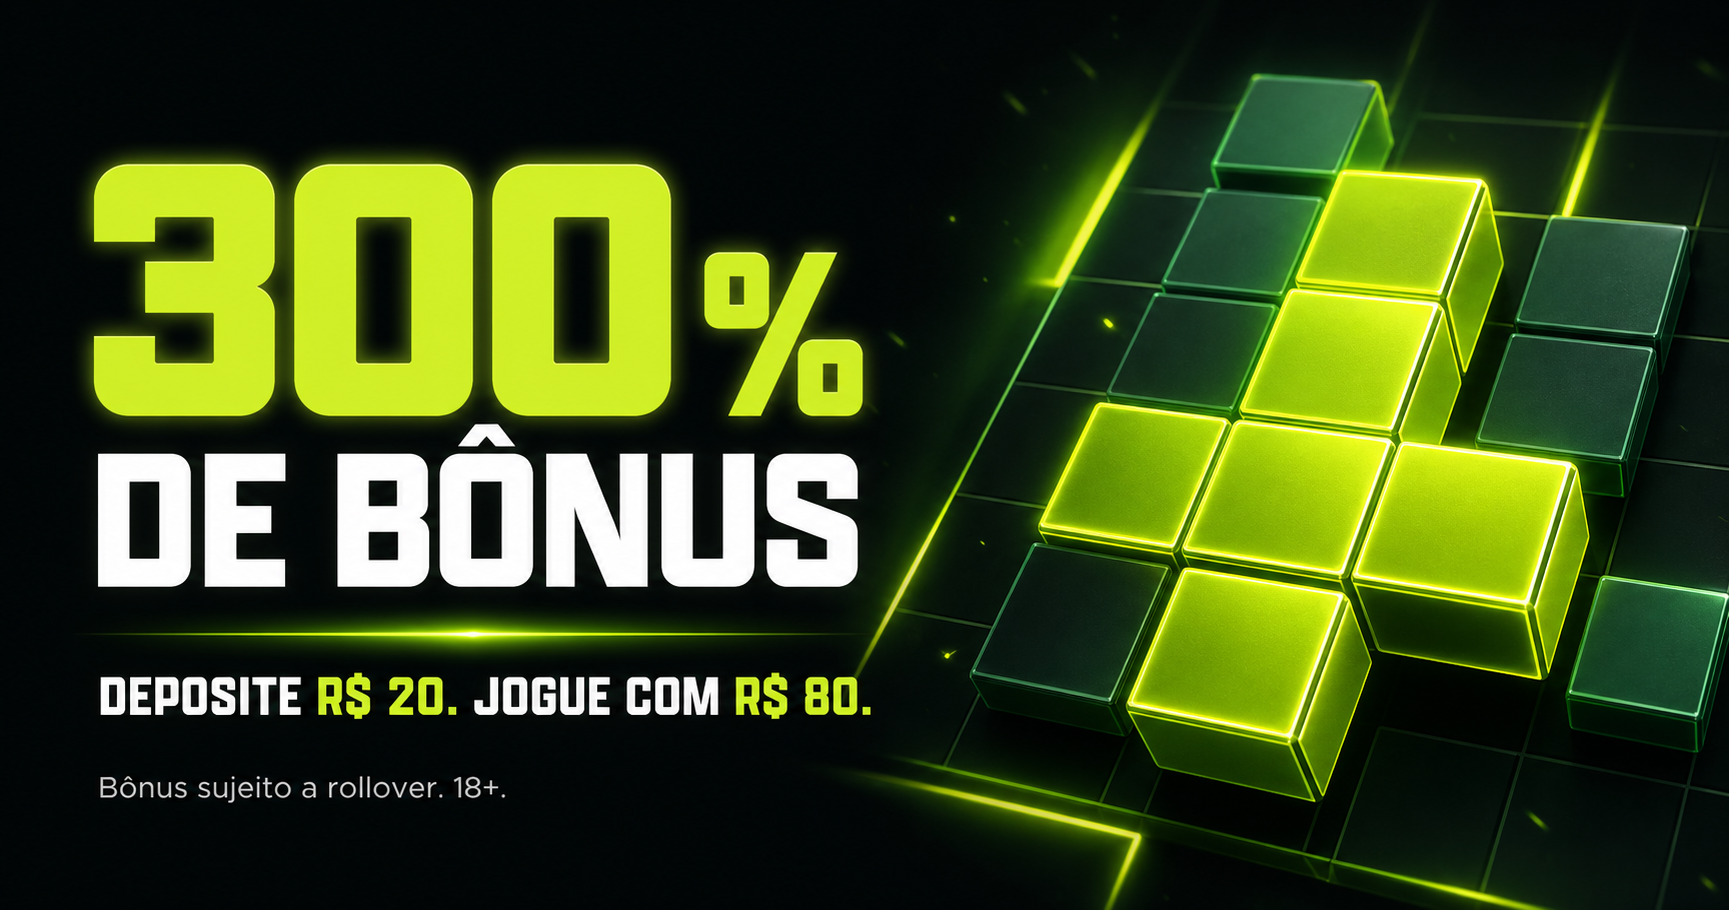
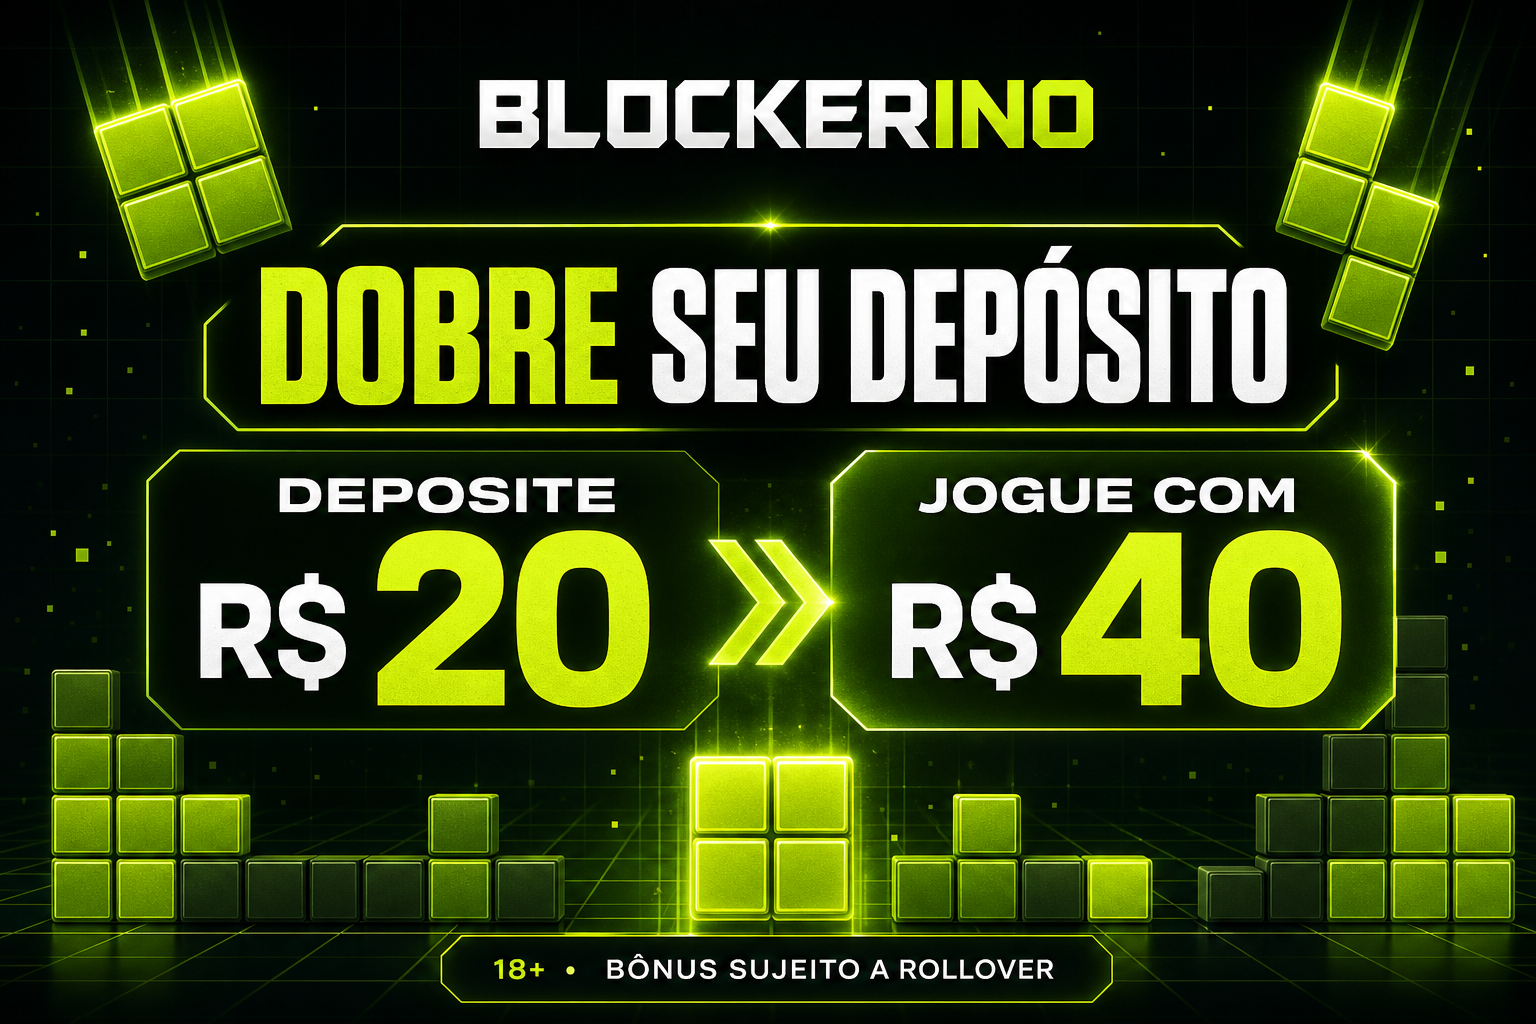
Change deposit promotion to 100 percent

diff --git a/public/index.html b/public/index.html
@@ -4,16 +4,20 @@
   <meta charset="utf-8">
   <meta name="viewport" content="width=device-width,initial-scale=1,viewport-fit=cover">
   <meta name="theme-color" content="#070b0b">
-  <meta name="description" content="Deposite R$ 20, receba 300% de bônus e comece no Blockerino com R$ 80 para jogar.">
+  <meta name="description" content="Deposite R$ 20, receba 100% de bônus e comece no Blockerino com R$ 40 para jogar.">
   <meta property="og:type" content="website">
-  <meta property="og:title" content="Blockerino — 300% de bônus no depósito">
-  <meta property="og:description" content="Deposite R$ 20 e jogue com R$ 80. Bônus sujeito a rollover.">
-  <meta property="og:image" content="/og.png">
+  <meta property="og:title" content="Blockerino — dobre seu depósito">
+  <meta property="og:description" content="Deposite a partir de R$ 20 e jogue com o dobro. Bônus sujeito a rollover.">
+  <meta property="og:image" content="https://block777-omega.vercel.app/og.png?v=20260803-1">
+  <meta property="og:image:width" content="1536">
+  <meta property="og:image:height" content="1024">
+  <meta property="og:image:alt" content="Blockerino: deposite R$ 20 e jogue com R$ 40">
   <meta name="twitter:card" content="summary_large_image">
-  <meta name="twitter:title" content="Blockerino — Encaixe. Quebre. Multiplique.">
-  <meta name="twitter:image" content="/og.png">
-  <title>Blockerino — Deposite R$ 20 e jogue com R$ 80</title>
-  <link rel="stylesheet" href="./css/style.css?v=20260730-3">
+  <meta name="twitter:title" content="Blockerino — dobre seu depósito">
+  <meta name="twitter:description" content="Deposite a partir de R$ 20 e jogue com o dobro. Bônus sujeito a rollover.">
+  <meta name="twitter:image" content="https://block777-omega.vercel.app/og.png?v=20260803-1">
+  <title>Blockerino — Deposite R$ 20 e jogue com R$ 40</title>
+  <link rel="stylesheet" href="./css/style.css?v=20260803-1">
 </head>
 <body>
   <div class="ambient ambient-a"></div><div class="ambient ambient-b"></div>
@@ -38,20 +42,20 @@
     <section class="screen active landing" id="landing-screen">
       <div class="hero">
         <div class="hero-copy">
-          <div class="eyebrow"><span></span><b id="hero-promo-eyebrow">OFERTA ATIVA · 300% DE BÔNUS</b></div>
-          <h1 id="hero-promo-title">Deposite<br><em>R$ 20.</em><br>Jogue com R$ 80.</h1>
-          <p id="hero-promo-copy">Seu depósito vale quatro vezes mais. Deposite a partir de R$ 20, receba 300% de bônus automático e entre no Blockerino com mais saldo para jogar.</p>
+          <div class="eyebrow"><span></span><b id="hero-promo-eyebrow">OFERTA ATIVA · 100% DE BÔNUS</b></div>
+          <h1 id="hero-promo-title">Deposite<br><em>R$ 20.</em><br>Jogue com R$ 40.</h1>
+          <p id="hero-promo-copy">Seu depósito vale o dobro. Deposite a partir de R$ 20, receba 100% de bônus automático e entre no Blockerino com mais saldo para jogar.</p>
           <div class="hero-actions">
-            <button class="btn btn-primary btn-xl pulse-cta" id="hero-promo-cta" onclick="app.openAuth('register')">Quero meus 300% <span>→</span></button>
+            <button class="btn btn-primary btn-xl pulse-cta" id="hero-promo-cta" onclick="app.openAuth('register')">Quero dobrar meu depósito <span>→</span></button>
             <button class="btn btn-ghost btn-xl" onclick="game.startDemoGame()">Jogar demonstração</button>
           </div>
           <div class="trust-row">
-            <span><b>PIX</b> confirmação automática</span><span id="hero-promo-trust"><b>+300%</b> a partir de R$ 20</span><span><b>18+</b> jogue com responsabilidade</span>
+            <span><b>PIX</b> confirmação automática</span><span id="hero-promo-trust"><b>+100%</b> a partir de R$ 20</span><span><b>18+</b> jogue com responsabilidade</span>
           </div>
           <p class="promo-terms" id="hero-promo-terms">Bônus promocional sujeito a rollover de 10x sobre o valor do bônus. Saques ficam indisponíveis até a conclusão do requisito. Consulte as regras na carteira.</p>
         </div>
         <div class="game-preview">
-          <div class="offer-badge"><span>VOCÊ DEPOSITA</span><b id="hero-example-deposit">R$ 20</b><i>+</i><span>NÓS ADICIONAMOS</span><b id="hero-example-bonus">R$ 60</b><strong id="hero-example-total">= R$ 80 PARA JOGAR</strong></div>
+          <div class="offer-badge"><span>VOCÊ DEPOSITA</span><b id="hero-example-deposit">R$ 20</b><i>+</i><span>NÓS ADICIONAMOS</span><b id="hero-example-bonus">R$ 20</b><strong id="hero-example-total">= R$ 40 PARA JOGAR</strong></div>
           <div class="preview-top"><div><small>MULTIPLICADOR</small><strong id="mini-demo-mult">1.00x</strong></div><div><small>RETORNO</small><strong id="mini-demo-value">R$ 20,00</strong></div><div><small>LINHAS</small><strong id="mini-demo-lines">0</strong></div></div>
           <canvas id="mini-demo-canvas" aria-label="Demonstração interativa do jogo"></canvas>
           <p>Arraste uma peça para experimentar</p>
@@ -82,7 +86,7 @@
         </div>
         <p class="security-disclaimer">Indicadores técnicos da plataforma. Os selos não representam certificação de órgão externo.</p>
       </section>
-      <div class="proof-strip"><span>ATIVE EM 3 PASSOS</span><b>01</b><p>Deposite a partir de R$ 20</p><b>02</b><p>Receba 300% automaticamente</p><b>03</b><p>Jogue e complete o rollover</p></div>
+      <div class="proof-strip"><span>ATIVE EM 3 PASSOS</span><b>01</b><p>Deposite a partir de R$ 20</p><b>02</b><p>Receba 100% automaticamente</p><b>03</b><p>Jogue e complete o rollover</p></div>
     </section>
 
     <section class="screen dashboard" id="menu-screen">
@@ -97,7 +101,7 @@
         <article class="metric"><small>MELHOR MULT.</small><strong id="dashboard-best">1.00x</strong><span>recorde pessoal</span></article>
       </div>
       <article class="dashboard-promo">
-        <div><small>OFERTA ATIVA</small><h3 id="dashboard-promo-title">300% de bônus em depósitos a partir de R$ 20</h3><p id="dashboard-promo-copy">R$ 20 viram R$ 80 para jogar. O progresso do rollover aparece na sua carteira.</p></div>
+        <div><small>OFERTA ATIVA</small><h3 id="dashboard-promo-title">100% de bônus em depósitos a partir de R$ 20</h3><p id="dashboard-promo-copy">R$ 20 viram R$ 40 para jogar. O progresso do rollover aparece na sua carteira.</p></div>
         <button class="btn btn-primary" onclick="app.showScreen('wallet-screen')">Ativar bônus agora <span>→</span></button>
       </article>
       <div class="dashboard-grid">
@@ -146,12 +150,12 @@
         <article class="panel wallet-actions">
           <div class="tabs"><button id="tab-dep-btn" class="active" onclick="wallet.toggleTab('deposit')">Depositar</button><button id="tab-with-btn" onclick="wallet.toggleTab('withdraw')">Sacar</button></div>
           <div id="dep-content">
-            <div class="deposit-promo"><span id="deposit-promo-badge">300% DE BÔNUS</span><h3>Deposite <b id="promo-deposit-value">R$ 20</b> e jogue com <strong id="promo-total-value">R$ 80</strong></h3><p id="promo-bonus-detail">R$ 60 em bônus adicionados automaticamente após a confirmação do PIX.</p></div>
+            <div class="deposit-promo"><span id="deposit-promo-badge">100% DE BÔNUS</span><h3>Deposite <b id="promo-deposit-value">R$ 20</b> e jogue com <strong id="promo-total-value">R$ 40</strong></h3><p id="promo-bonus-detail">R$ 20 em bônus adicionados automaticamente após a confirmação do PIX.</p></div>
             <div class="wallet-security-strip" aria-label="Segurança do depósito"><span>✓ PIX verificado</span><span>✓ HTTPS ativo</span><span>✓ Confirmação automática</span></div>
             <label>Valor do depósito</label><div class="money-input"><span>R$</span><input id="dep-amount-input" type="number" min="5" value="20" oninput="wallet.updatePromoPreview()"></div>
             <div class="quick-values"><button onclick="wallet.selectPreset(20)" class="active">R$ 20</button><button onclick="wallet.selectPreset(50)">R$ 50</button><button onclick="wallet.selectPreset(100)">R$ 100</button><button onclick="wallet.selectPreset(200)">R$ 200</button></div>
-            <button class="btn btn-primary btn-wide pulse-cta" id="deposit-promo-button" onclick="wallet.requestDeposit()">Gerar PIX e ativar 300%</button>
-            <p class="deposit-legal" id="deposit-promo-legal">Oferta para depósitos a partir de R$ 20. Bônus de 300% sujeito a rollover de 10x sobre o bônus. Saques permanecem bloqueados enquanto houver requisito pendente. Valores depositados abaixo de R$ 20 não recebem bônus.</p>
+            <button class="btn btn-primary btn-wide pulse-cta" id="deposit-promo-button" onclick="wallet.requestDeposit()">Gerar PIX e ativar 100%</button>
+            <p class="deposit-legal" id="deposit-promo-legal">Oferta para depósitos a partir de R$ 20. Bônus de 100% sujeito a rollover de 10x sobre o bônus. Saques permanecem bloqueados enquanto houver requisito pendente. Valores depositados abaixo de R$ 20 não recebem bônus.</p>
             <div id="pix-result-container" class="pix-result"><img id="pix-qr-image" class="pix-qr" alt="QR Code PIX" hidden><label>Código PIX</label><textarea id="pix-code-display" readonly></textarea><button class="btn btn-ghost btn-wide" onclick="wallet.copyPixCode()">Copiar código</button></div>
           </div>
           <div id="with-content" hidden>
@@ -171,6 +175,6 @@
   <div class="modal" id="win-modal"><div class="modal-card result-card"><div class="result-icon">✓</div><small>RESGATE CONCLUÍDO</small><h3 id="win-modal-payout">R$ 0,00</h3><p>Multiplicador final: <b id="win-modal-mult">1.00x</b></p><button class="btn btn-primary btn-wide" onclick="app.closeModal('win-modal');app.showScreen('menu-screen');app.loadUserData(false)">Voltar ao painel</button></div></div>
   <div class="modal" id="gameover-modal"><div class="modal-card result-card"><div class="result-icon danger">×</div><small>FIM DE PARTIDA</small><h3>Sem movimentos</h3><p>A rodada foi encerrada. Revise sua estratégia e tente novamente.</p><button class="btn btn-primary btn-wide" onclick="app.closeModal('gameover-modal');app.showScreen('menu-screen');app.loadUserData(false)">Voltar ao painel</button></div></div>
   <div class="toast-container" id="toast-container"></div>
-  <script src="./js/app.js?v=20260730-10"></script><script src="./js/wallet.js?v=20260729-7"></script><script src="./js/game.js?v=20260730-4"></script>
+  <script src="./js/app.js?v=20260803-1"></script><script src="./js/wallet.js?v=20260803-1"></script><script src="./js/game.js?v=20260803-1"></script>
 </body>
 </html>

diff --git a/routes/wallet.js b/routes/wallet.js
@@ -4,15 +4,29 @@ import { v4 as uuidv4 } from 'uuid';
 import { db, FieldValue } from '../lib/firebase.js';
 import { authenticateToken } from '../middleware/auth.js';
 import { createVizzionPix, getVizzionTransaction, parseVizzionWebhook, vizzionPayStatus } from '../lib/vizzionpay.js';
-import { calculateDepositPromotion, getWalletBuckets, normalizePromotionSettings } from '../lib/promotion.js';
+import { calculateDepositPromotion, getWalletBuckets, normalizePromotionSettings, PROMOTION_DEFAULTS } from '../lib/promotion.js';
 
 const router = express.Router();
 const tokenHash = value => crypto.createHash('sha256').update(String(value)).digest('hex');
 
+async function getPromotionSettings() {
+  const settingsRef = db.collection('settings').doc('global');
+  const settingsDoc = await settingsRef.get();
+  const settings = settingsDoc.exists ? settingsDoc.data() : {};
+  if (settings.promotionVersion === PROMOTION_DEFAULTS.promotionVersion) return settings;
+  const campaign = {
+    promoEnabled: true,
+    bonusPercent: PROMOTION_DEFAULTS.bonusPercent,
+    bonusMinDeposit: PROMOTION_DEFAULTS.bonusMinDeposit,
+    promotionVersion: PROMOTION_DEFAULTS.promotionVersion
+  };
+  await settingsRef.set(campaign, { merge: true });
+  return { ...settings, ...campaign };
+}
+
 router.get('/promotion', async (req, res) => {
   try {
-    const settingsDoc = await db.collection('settings').doc('global').get();
-    res.json(normalizePromotionSettings(settingsDoc.exists ? settingsDoc.data() : {}));
+    res.json(normalizePromotionSettings(await getPromotionSettings()));
   } catch (_) {
     res.json(normalizePromotionSettings({}));
   }
@@ -24,9 +38,8 @@ router.post('/deposit', authenticateToken, async (req, res) => {
     let minDeposit = 500;
     let settings = {};
     try {
-      const settingsDoc = await db.collection('settings').doc('global').get();
-      if (settingsDoc.exists) {
-        settings = settingsDoc.data();
+      settings = await getPromotionSettings();
+      if (settings) {
         minDeposit = settings.minDeposit ?? minDeposit;
       }
     } catch (e) {}
@@ -378,7 +391,7 @@ router.get('/history', authenticateToken, async (req, res) => {
     const [snapshot, userDoc, settingsDoc] = await Promise.all([
       db.collection('transactions').where('uid', '==', uid).get(),
       db.collection('users').doc(uid).get(),
-      db.collection('settings').doc('global').get()
+      getPromotionSettings()
     ]);
 
     const history = snapshot.docs
@@ -390,7 +403,7 @@ router.get('/history', authenticateToken, async (req, res) => {
       })
       .slice(0, 50);
     const wallet = getWalletBuckets(userDoc.exists ? userDoc.data() : {});
-    const promotion = normalizePromotionSettings(settingsDoc.exists ? settingsDoc.data() : {});
+    const promotion = normalizePromotionSettings(settingsDoc || {});
     const progress = wallet.rolloverTarget > 0
       ? Math.max(0, Math.min(100, Math.round((1 - wallet.rolloverRemaining / wallet.rolloverTarget) * 100)))
       : 100;

diff --git a/public/js/app.js b/public/js/app.js
@@ -60,7 +60,9 @@ const app = {
       setText('hero-promo-copy', `Seu depósito vale mais. Deposite a partir de ${minLabel}, receba ${percent}% de bônus automático e entre no Blockerino com mais saldo para jogar.`);
       setText('hero-promo-terms', `Bônus promocional sujeito a rollover de ${rollover}x sobre o valor do bônus. Saques ficam indisponíveis até a conclusão do requisito. Consulte as regras na carteira.`);
       const cta = document.getElementById('hero-promo-cta');
-      if (cta) cta.innerHTML = `Quero meus ${percent}% <span>→</span>`;
+      if (cta) cta.innerHTML = percent === 100
+        ? 'Quero dobrar meu depósito <span>→</span>'
+        : `Quero meus ${percent}% <span>→</span>`;
       const trust = document.getElementById('hero-promo-trust');
       if (trust) trust.innerHTML = `<b>+${percent}%</b> a partir de ${minLabel}`;
       setText('hero-example-deposit', minLabel);
@@ -160,7 +162,7 @@ const app = {
     }
     root.innerHTML = items.slice(0, 6).map(tx => {
       const positive = Number(tx.amount) > 0;
-      const label = ({ bet: 'Aposta', win: 'Resgate', deposit: 'Depósito', deposit_bonus: 'Bônus de 300%', bonus_unlock: 'Bônus liberado', withdraw: 'Saque', affiliate_redeem: 'Comissão' })[tx.type] || 'Movimentação';
+      const label = ({ bet: 'Aposta', win: 'Resgate', deposit: 'Depósito', deposit_bonus: 'Bônus promocional', bonus_unlock: 'Bônus liberado', withdraw: 'Saque', affiliate_redeem: 'Comissão' })[tx.type] || 'Movimentação';
       return `<div class="activity-item"><span class="activity-icon">${positive ? '↗' : '↙'}</span><div><b>${label}</b><span>${this.formatDate(tx.created_at)}</span></div><strong class="activity-amount" style="color:${positive ? 'var(--success)' : 'var(--text)'}">${positive ? '+' : ''}${this.formatBRL(tx.amount)}</strong></div>`;
     }).join('');
   },

diff --git a/api/index.js b/api/index.js
@@ -51,6 +51,14 @@ function loadData() {
 }
 let store = loadData();
 store.settings = { ...defaultData.settings, ...(store.settings || {}) };
+if (store.settings.promotionVersion !== PROMOTION_DEFAULTS.promotionVersion) {
+  Object.assign(store.settings, {
+    bonusPercent: PROMOTION_DEFAULTS.bonusPercent,
+    bonusMinDeposit: PROMOTION_DEFAULTS.bonusMinDeposit,
+    promotionVersion: PROMOTION_DEFAULTS.promotionVersion
+  });
+  save();
+}
 function save() {
   try {
     fs.mkdirSync(path.dirname(dataFile), { recursive: true });

diff --git a/public/js/wallet.js b/public/js/wallet.js
@@ -1,7 +1,7 @@
 const wallet = {
   pixCode: '',
   data: null,
-  promotion: { promoEnabled: true, bonusPercent: 300, bonusMinDeposit: 2000, rolloverMultiplier: 10 },
+  promotion: { promoEnabled: true, bonusPercent: 100, bonusMinDeposit: 2000, rolloverMultiplier: 10 },
   toggleTab(tab) {
     const deposit = tab === 'deposit';
     document.getElementById('dep-content').hidden = !deposit;

diff --git a/public/js/game.js b/public/js/game.js
@@ -404,7 +404,7 @@ const game = {
 
     const ctaBtn = document.getElementById('landing-cta-btn');
     if (ctaBtn) {
-      ctaBtn.innerHTML = `🔥 GANHAR ${profitStr} DE VERDADE (RESGATAR BÔNUS 300%) 🚀`;
+      ctaBtn.innerHTML = `🔥 GANHAR ${profitStr} DE VERDADE (RESGATAR BÔNUS) 🚀`;
     }
   },
 

diff --git a/lib/promotion.js b/lib/promotion.js
@@ -1,8 +1,9 @@
 export const PROMOTION_DEFAULTS = {
   promoEnabled: true,
-  bonusPercent: 300,
+  bonusPercent: 100,
   bonusMinDeposit: 2000,
-  rolloverMultiplier: 10
+  rolloverMultiplier: 10,
+  promotionVersion: 'double-2026-08'
 };
 
 export function normalizePromotionSettings(settings = {}) {
